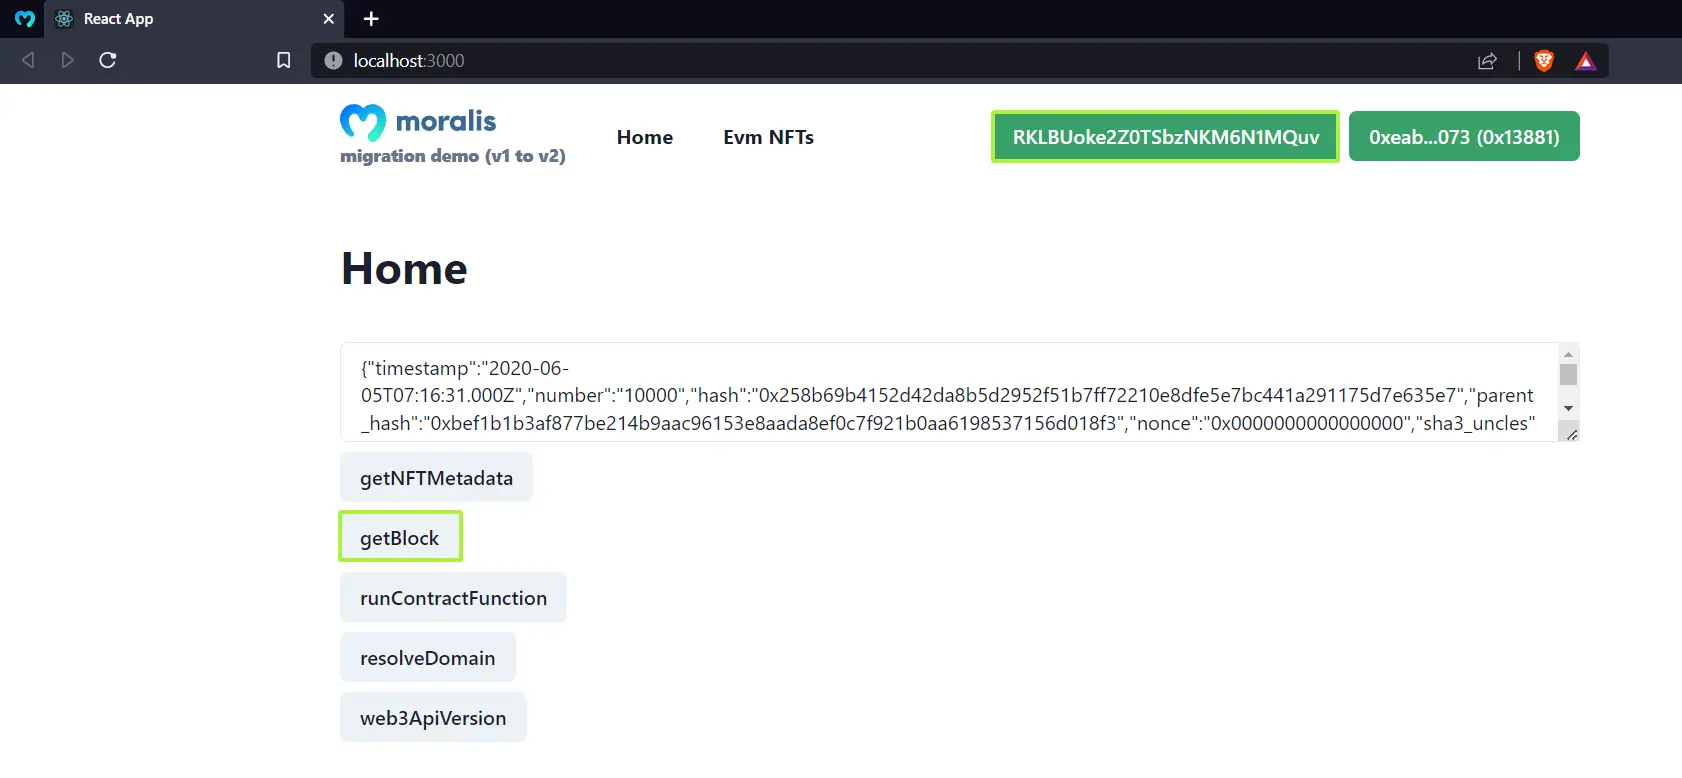
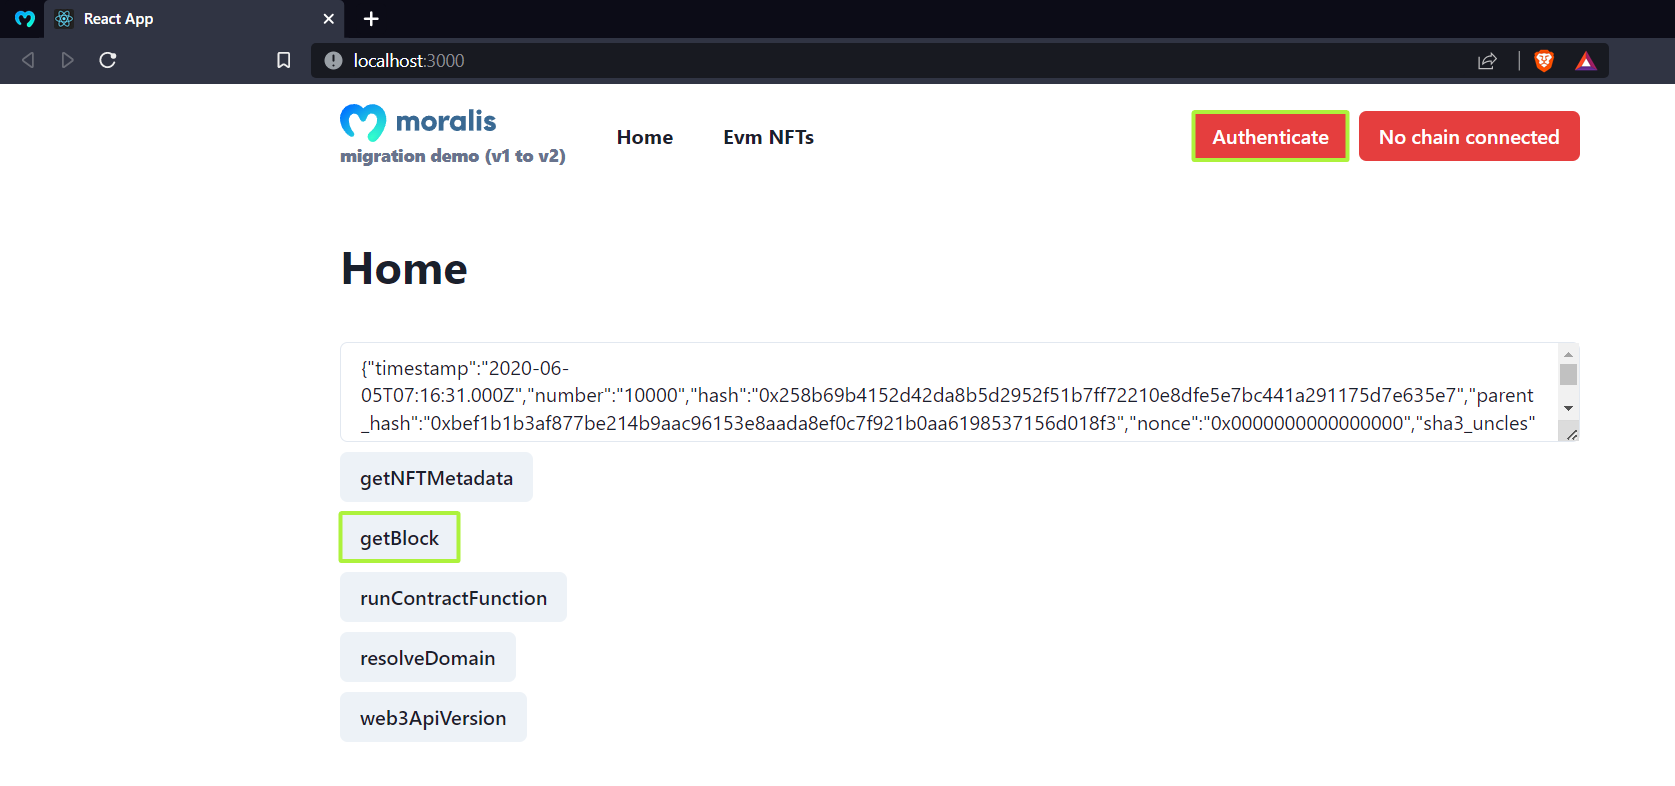
information about authentication added

diff --git a/docs/01-web3-data-api/self-hosting-moralis-server/client-connection/client-connection.md b/docs/01-web3-data-api/self-hosting-moralis-server/client-connection/client-connection.md
@@ -1,17 +1,16 @@
 ---
 title: "Client connection"
-sidebar_position: 4
+sidebar_position: 5
 ---
-
-:::caution Important
-The completion of the [**Local Environment Setup**](/web3-data-api/self-hosting-moralis-server/local-environment-setup) is required to continue.
-The completion of the [**Production Environment Setup**](/web3-data-api/self-hosting-moralis-server/production-environment-setup) is **NOT required** but it is **strongly recommended**.
-:::
 
 :::info overview
 This guide will teach you how to **connect** to your **self-hosted Moralis Server** from different **client environments**. 
 :::info
 
+:::caution Important
+The completion of the [**Local Environment Setup**](/web3-data-api/self-hosting-moralis-server/local-environment-setup) is required to continue.
+The completion of the [**Production Environment Setup**](/web3-data-api/self-hosting-moralis-server/production-environment-setup) is **NOT required** but it is **strongly recommended**.
+:::
 
 ## React App
 
@@ -78,5 +77,112 @@ yarn start
 Now you can try to ***Authenticate*** and for example ***getBlock*** data:
 
 ![](/img/content/client-3.webp)
+
+### Information about `Authentication`
+
+:::note
+The following information serves as a *good-to-know*. The [`parse-server-migration-react-client`](https://github.com/MoralisWeb3/Moralis-JS-SDK/tree/main/demos/parse-server-migration-react-client) project already implements it.
+:::
+
+The **authentication flow** in the **self-hosted Moralis Server** works a bit **different** in comparison to some of its other features. This is because it is using the [**Auth Api**](https://docs.moralis.io/reference/requestchallengeevm). 
+
+The following **code snippets** show how to handle it on a **`react-moralis` app** and how you would do it with **`Moralis-JS-SDK-v1`** alone.
+
+import Tabs from '@theme/Tabs';
+import TabItem from '@theme/TabItem';
+
+<Tabs>
+  <TabItem value="react" label="react-moralis">
+
+```javascript React
+import { useMoralis } from 'react-moralis';
+import Moralis from 'moralis-v1';
+
+export const Example = () => {
+  const { authenticate, enableWeb3 } = useMoralis();
+  const [authError, setAuthError] = useState(null);
+  const [isAuthenticating, setIsAuthenticating] = useState(false);
+
+  const handleAuth = async (provider) => {
+    try {
+      setAuthError(null);
+      setIsAuthenticating(true);
+
+      // Enable web3 to get user address and chain
+      await enableWeb3({ throwOnError: true, provider });
+      const { account, chainId } = Moralis;
+
+      if (!account) {
+        throw new Error('Connecting to chain failed, as no connected account was found');
+      }
+      if (!chainId) {
+        throw new Error('Connecting to chain failed, as no connected chain was found');
+      }
+
+      // Get message to sign from the auth api
+      const { message } = await Moralis.Cloud.run('requestMessage', {
+        address: account,
+        chain: parseInt(chainId, 16),
+        network: 'evm',
+      });
+
+      // Authenticate and login via parse
+      await authenticate({
+        signingMessage: message,
+        throwOnError: true,
+      });
+    } catch (error) {
+      setAuthError(error);
+    } finally {
+      setIsAuthenticating(false);
+    }
+  };
+
+	return (<div>
+    <button onClick={() => handleAuth("metamask")}>Authenticate via metamask</button>
+  </div>
+  )
+}
+```
+
+  </TabItem>
+  <TabItem value="javascript" label="Moralis-JS-SDK-v1" default>
+
+```javascript
+async function handleAuth(provider) {
+    await Moralis.enableWeb3({
+        throwOnError: true,
+        provider,
+    });
+
+    const { account, chainId } = Moralis;
+
+    if (!account) {
+        throw new Error("Connecting to chain failed, as no connected account was found");
+    }
+    if (!chainId) {
+        throw new Error("Connecting to chain failed, as no connected chain was found");
+    }
+
+    const { message } = await Moralis.Cloud.run("requestMessage", {
+        address: account,
+        chain: parseInt(chainId, 16),
+        network: "evm",
+    });
+
+    await Moralis.authenticate({
+        signingMessage: message,
+        throwOnError: true,
+    }).then((user) => {
+        console.log(user);
+    });
+}
+
+// Example
+handleAuth('metamask')
+```
+
+  </TabItem>
+</Tabs>
 
 ## Unity client
